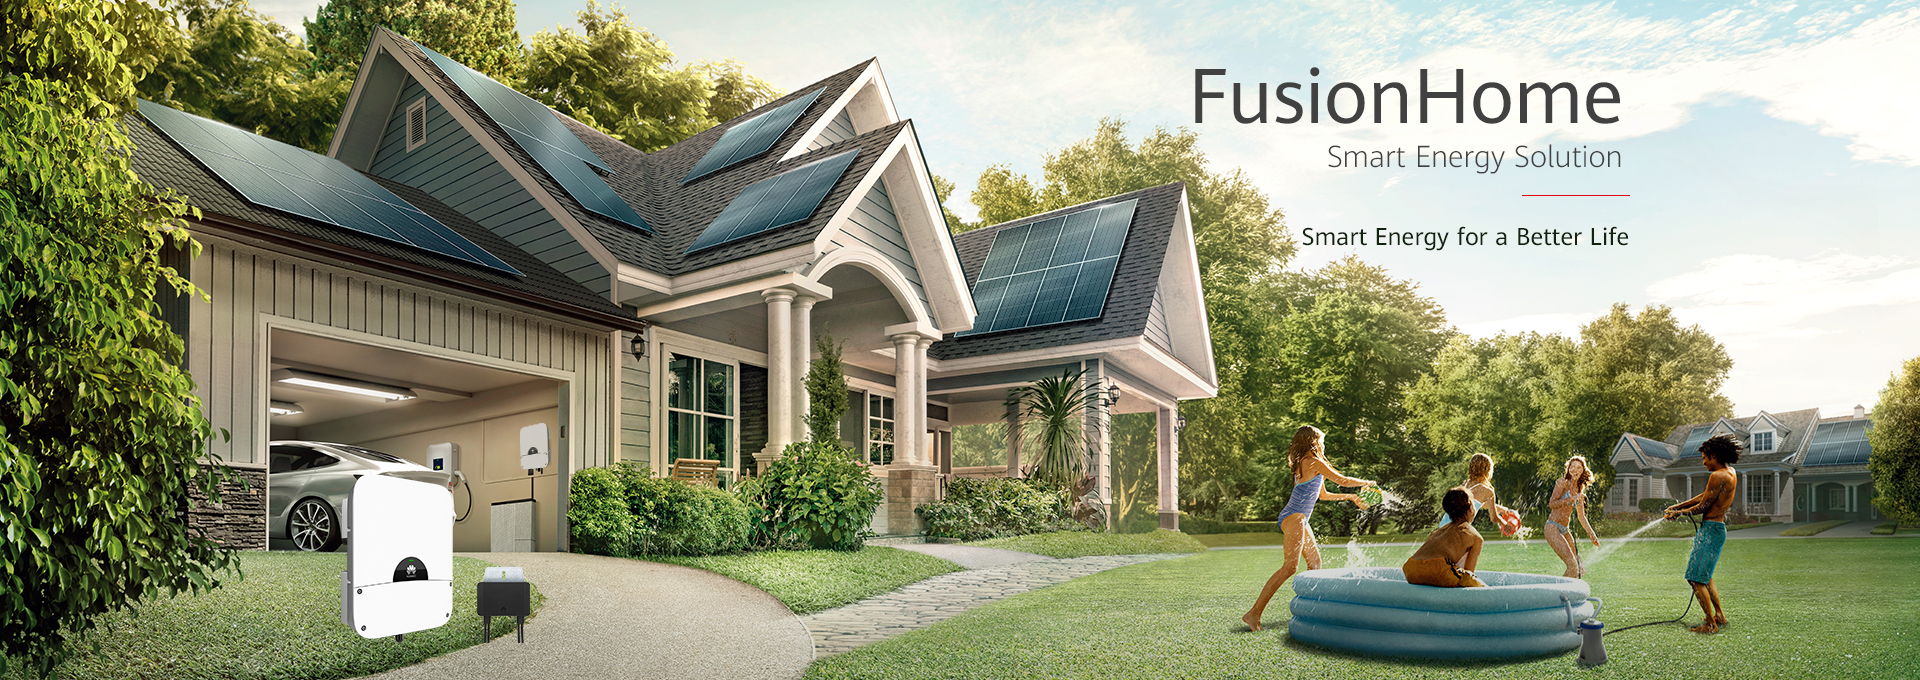
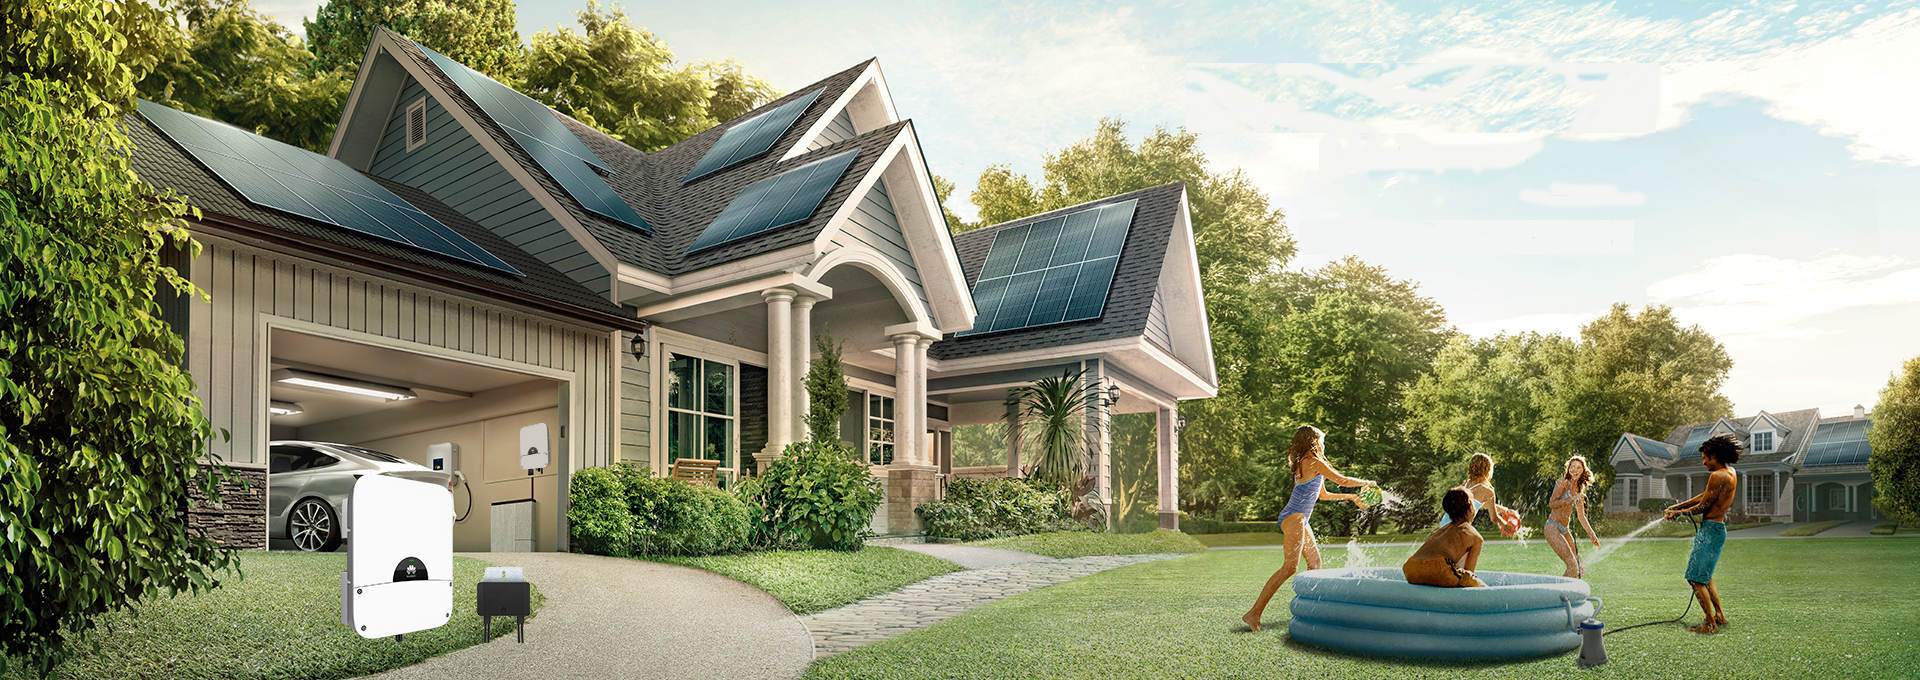
Mas cambios por claudia con mundo ongrid

diff --git a/resources/scss/mundoongrid.scss b/resources/scss/mundoongrid.scss
@@ -32,8 +32,12 @@ img.smainverter{
 .sma-header{
 	align-self: flex-start;
 	padding: 30px 15px;
+	color: $white;
 	@include media-breakpoint-up(sm) {
 		max-width: 60%; 
+	}
+	h1, h2{
+		color: white !important;
 	}
 }
 

diff --git a/resources/scss/mundooffgrid.scss b/resources/scss/mundooffgrid.scss
@@ -19,7 +19,8 @@
 }
 .inverter-gallery{
 	width: 300px;
-	pointer-events:none;
+	height: 200px;
+	align-self: flex-end;
 }
 img.victroninverter{
 	pointer-events: none;

diff --git a/themes/vincent2/page-hogar.php b/themes/vincent2/page-hogar.php
@@ -14,7 +14,7 @@
 					Independiente<br> Inteligente <br>Conveniente
 				</h1>
 				<p>
-					Invierta de forma inteligente, con las soluciones de Vincent Solar ahorre inmediatamente en su cuenta de energ&iacute;a eléctrica.
+					Invierta de forma inteligente con las soluciones de Vincent Solar, ahorre inmediatamente en su cuenta de energ&iacute;a eléctrica.
 				</p>
 				<a class="orange-with-arrow" href="#ongrid">¿Como funcionan los sistemas solares? </a>
 			</div>
@@ -35,31 +35,17 @@
 
 <!-- Banner a soluciones hogar -->
 <div class="container-fluid vp-t vp-b">
-	<h1>
+	<h1 class="text-center py-4">
 		La Solución.
 	</h1>
-	<section class="half-banner tall bg-lazy" data-src="<?php echo get_template_directory_uri() ?>/image/covers/condominio-casas.png">
-		<img class="watermark right lazy" src="<?php echo get_template_directory_uri() ?>/image/snippets/empty.png" data-src="<?php echo get_template_directory_uri() ?>/image/snippets/watermark.png">
-		<div class="half-banner-body">
-			<div class="mov-img">
-				<img class=" img-fluid lazy" data-src="<?php echo get_template_directory_uri() ?>/image/covers/condominio-casas.png">
-			</div>
-			<div class="w-100">
-				<!--
-				<p>
-					<strong>Vincent Solar</strong> se distingue por su estándar de asesoría y ejecución al mas alto nivel. Nuestros clientes a lo largo del país lo valoran. Todos sus productos y sistemas instalados cuentan con todas las calificaciones y estándar internacional por dar el máximo beneficio a nuestros clientes en relación precio-calidad.
-				</p>
-				-->
-				
-			</div>
-		</div>
-	</section>
 </div>
 <!-- /Banner a soluciones hogar -->
 
+
+
 <!-- Mundo ONGRID -->
 <div class="container-fluid">
-	<div class="row banner-mundo-offgrid bg-lazy" data-src="<?php echo get_template_directory_uri() ?>/image/banners/mundoongrid.jpg">
+	<div class="row banner-mundo-offgrid bg-lazy" data-src="<?php echo get_template_directory_uri() ?>/image/covers/condominio-casas.png">
 		<div class="sma-header">
 			<h1 class="">
 				Mundo <span class="orange">ONGRID</span> by <img class="vincent-title-img-inline" src="<?php echo get_template_directory_uri() ?>/image/snippets/logo-mov.png"> 
@@ -68,12 +54,25 @@
 				Ahorro inmediato de energ&iacute;a.
 			</h2>
 		</div>
-		<div class="inverter-gallery" data-visible-index="0">
-			<img class="victroninverter hide" src="<?php echo get_template_directory_uri() ?>/image/snippets/mundoongrid/sunnyboy2.png">
-			<img class="victroninverter hide" src="<?php echo get_template_directory_uri() ?>/image/snippets/mundoongrid/huaweiinverter.png">
-			<img class="victroninverter" src="<?php echo get_template_directory_uri() ?>/image/snippets/mundoongrid/sunnyboy.png">
+		<div class="inverter-gallery">
+			<img src="https://via.placeholder.com/300" class="">
 		</div>
+
 	</div>
+	<!-- como funciona ongrid -->
+	<div class="container vp-t ">
+		<div id="ongrid"></div>
+		<h1  class="pb-4">¿Como funciona el sistema <span class="orange">ON GRID</span> residencial?</h1>
+	</div>
+	<div class="container-fluid">
+		<section class="full-width-diagram bg-lazy" data-src="<?php echo get_template_directory_uri() ?>/image/covers/paneles-faded.jpg">
+			<div class="img-wrapper">
+				<img class="img-fluid lazy" src="<?php echo get_template_directory_uri() ?>/image/snippets/empty.png" data-src="<?php echo get_template_directory_uri() ?>/image/covers/diagrama_hogar_on.png">
+			</div>
+		</section>
+	</div>
+	<!-- como funciona ongrid -->
+	<!--	
 	<div class="text-with-image">
 	    <div class="text-part">
 	      <h2>
@@ -133,6 +132,7 @@
 	      <img class="img-fluid" src="<?php echo get_template_directory_uri() ; ?>/image/snippets/mundoongrid/selfrepair.png">
 	    </div>
 	</div>
+	-->
 </div>
 <!-- /Mundo ONGRID -->
 
@@ -184,19 +184,7 @@
 	</div>
 
 </div>
-<!-- como funciona ongrid -->
-<div class="container vp-t ">
-	<div id="ongrid"></div>
-	<h1  class="pb-4">¿Como funciona el sistema <span class="orange">ON GRID</span> residencial?</h1>
-</div>
-<div class="container-fluid">
-	<section class="full-width-diagram bg-lazy" data-src="<?php echo get_template_directory_uri() ?>/image/covers/paneles-faded.jpg">
-		<div class="img-wrapper">
-			<img class="img-fluid lazy" src="<?php echo get_template_directory_uri() ?>/image/snippets/empty.png" data-src="<?php echo get_template_directory_uri() ?>/image/covers/diagrama_hogar_on.png">
-		</div>
-	</section>
-</div>
-<!-- como funciona ongrid -->
+
 
 <!-- galeria ongrid -->
 <div id="open-gallery-ongrid" class="banner-link  vp-t vp-b">
